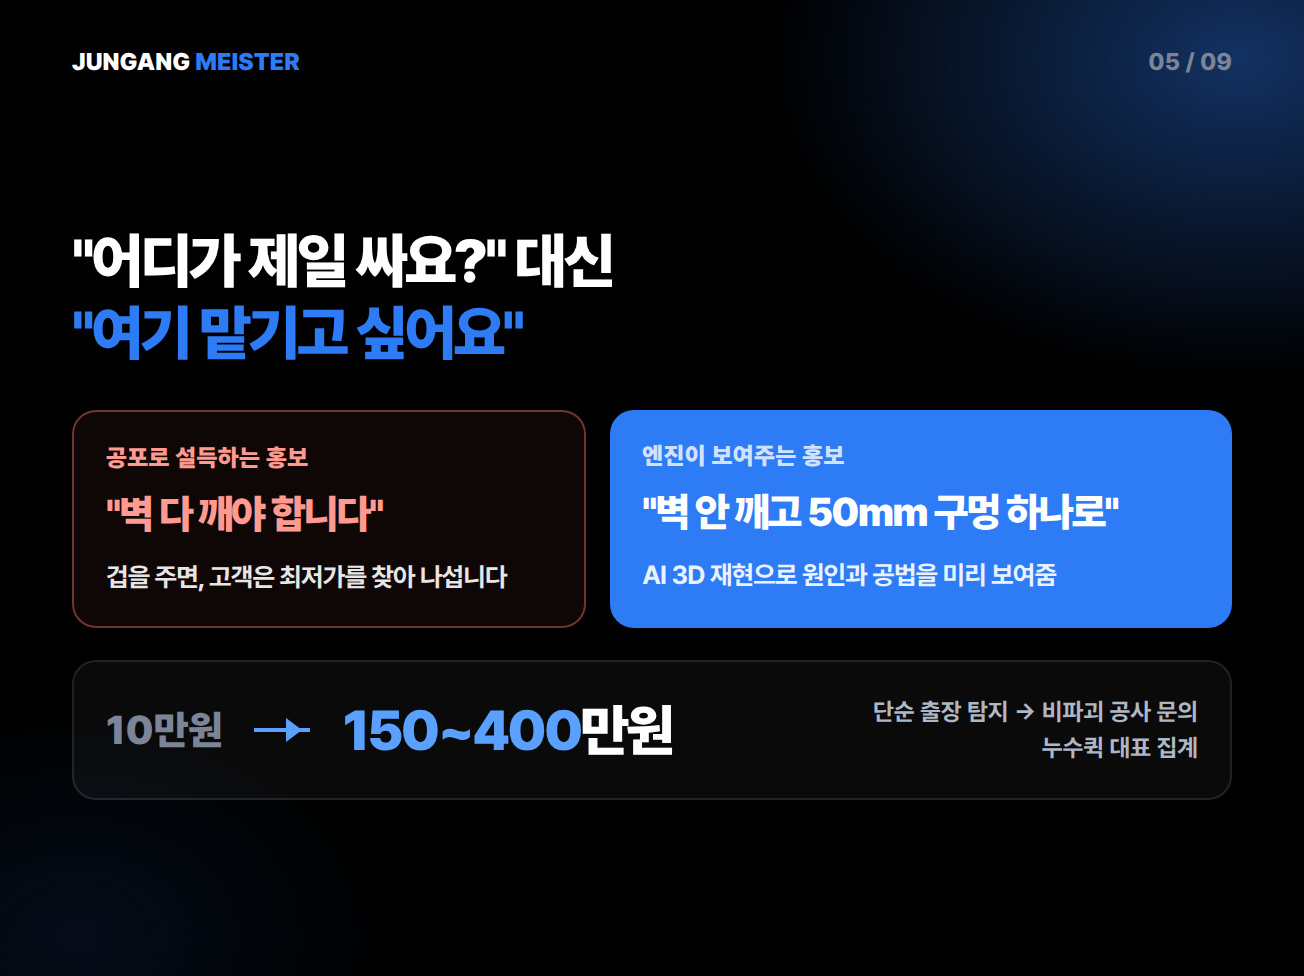
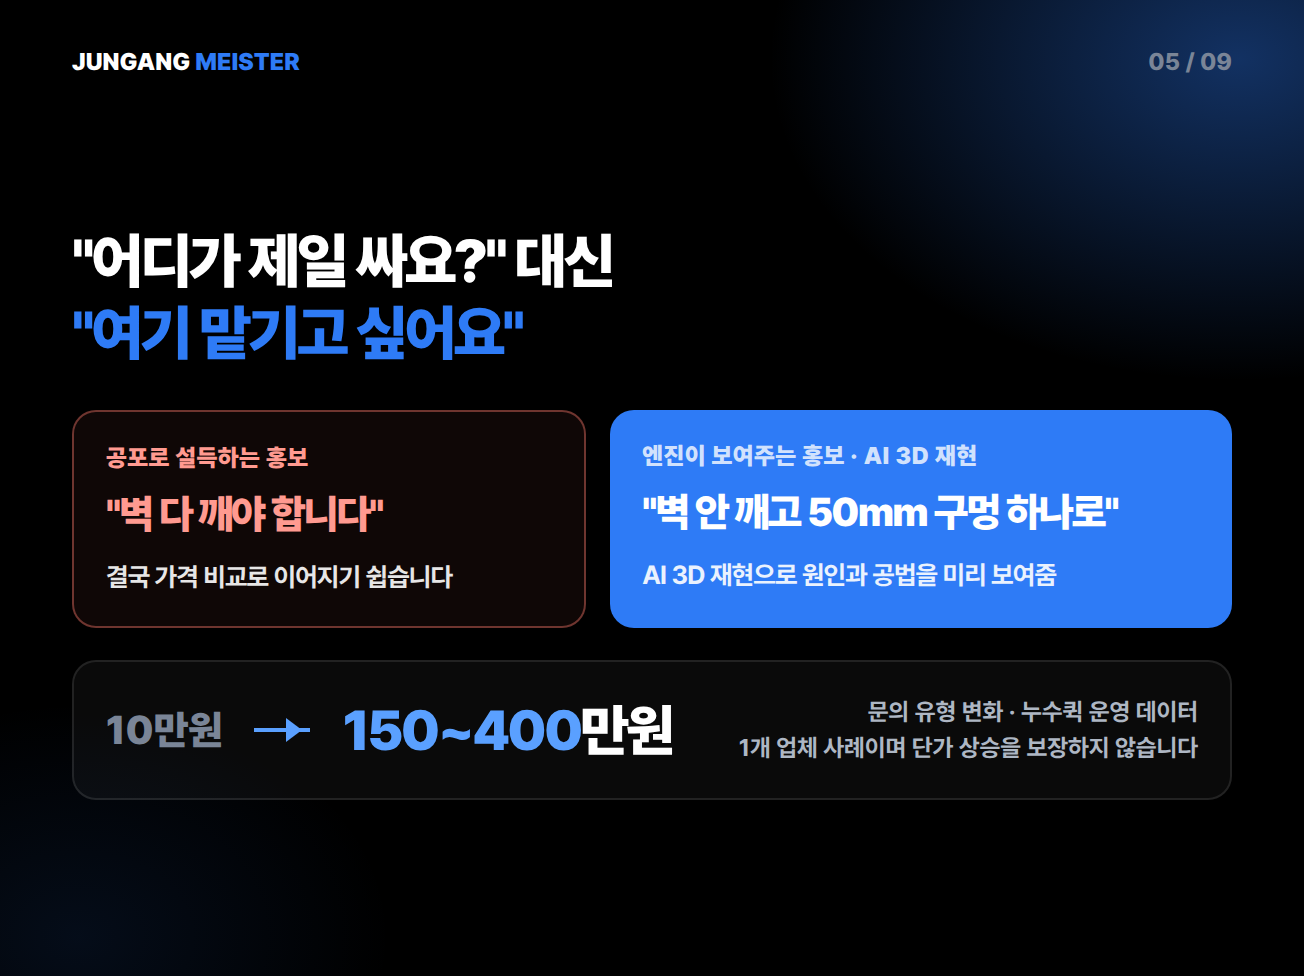
AI3D 카피 2차 검토 반영
- 누수퀵 수치 표기를 "운영 데이터"로, 기준일(2026년 10월)·1개 사례·
  단가 상승 비보장 고지 추가
- 파일럿 가격을 "파일럿부터 · 3개 채널"로 표기해 5채널 오인 방지
- 사장님 할 일 표현 통일(사진 올리고 승인)
- 개선 효과 단정 대신 "조회 데이터를 다음 콘텐츠에 반영"으로 사실 범위 축소
- 사진 제외 기준을 실제 필터(얼굴 절반 이상, 지정 작업복 문구)로 정정
- "방송 표준 음량" 삭제: EBU R128 방송 기준은 −23 LUFS이고 −16은
  스트리밍 권장치라 사실과 다름 → "플랫폼 권장 음량 보정"
- 비교표에 월 콘텐츠 수·시세 출처 수치 명시, 근거 없는 정성 주장 삭제
- 미확정 590만원 패키지는 "별도 견적", 홈페이지 보유 조건·착수일 고지

Claude-Session: https://claude.ai/code/session_01Qa8u8H65t3zHqY3BJueAkU

Changed region(s): [[0.5521, 0.707, 0.9202, 0.7992], [0.092, 0.5533, 0.3988, 0.6148], [0.6442, 0.4303, 0.7669, 0.4918]]

diff --git a/크몽/AI3D/cards.html b/크몽/AI3D/cards.html
@@ -168,12 +168,12 @@ body{display:flex;flex-direction:column;align-items:center;gap:32px;padding:32px
   <div class="main">
     <div class="l"><span class="tag">설비·시공 사장님 전용 홍보 엔진</span>
       <h1 style="font-size:35px">현장 사진 올리면<br><span class="b">아침 9시,</span><br>5개 채널 자동 발행</h1>
-      <p class="proof">누수퀵 실가동 · 광고비 0원 · <b>누적 조회 2만 회</b></p>
-      <div class="p-row"><span class="p-lab">2주 파일럿 · 3개 채널 · 쇼츠 6편</span></div>
+      <p class="proof">누수퀵 실가동 · 광고비 0원 · <b>144건 발행</b></p>
+      <div class="p-row"><span class="p-lab">파일럿부터 · 2주 · 3개 채널 · 쇼츠 6편</span></div>
       <span class="p-big">99만원</span><p class="p-note">VAT 별도 · 월 가동 패키지 있음</p></div>
     <div class="r"><svg class="fly" data-center="09:00" data-sub="5개 채널 동시"></svg></div>
   </div>
-  <div class="foot"><span class="foot__m">JUNGANG <span>MEISTER</span></span><span class="foot__s"></span><span class="foot__t">사장님 손은 승인 버튼뿐</span></div>
+  <div class="foot"><span class="foot__m">JUNGANG <span>MEISTER</span></span><span class="foot__s"></span><span class="foot__t">사장님은 사진 올리고 승인만</span></div>
 </section>
 
 <!-- ═════ 02 [Interest] PAS ═════ -->
@@ -185,7 +185,7 @@ body{display:flex;flex-direction:column;align-items:center;gap:32px;padding:32px
     <p class="h">홍보, 해야 하는 건 아는데<br><span class="b">손도 못 대고 계시죠?</span></p>
     <div class="pain">
       <div><b>직접 하면</b><span>현장 끝나면 기운이 없어 한 달에 두세 개</span></div>
-      <div><b>대행 맡기면</b><span>블로그·인스타·영상 따로 계약, 월 수백만 원</span></div>
+      <div><b>대행 맡기면</b><span>블로그·인스타·영상 따로 계약, 따로 연락</span></div>
       <div><b>그러다 보면</b><span>가격만 묻는 전화가 대부분</span></div>
     </div>
     <p class="hit">고객은 <span class="b">이해가 되는 업체</span>에 전화합니다.</p>
@@ -230,7 +230,7 @@ body{display:flex;flex-direction:column;align-items:center;gap:32px;padding:32px
         <div class="bars"><i style="height:20%"></i><i style="height:28%"></i><i style="height:25%"></i><i style="height:38%"></i><i style="height:35%"></i><i style="height:50%"></i><i style="height:46%"></i><i style="height:62%"></i><i style="height:57%"></i><i style="height:74%"></i><i class="on" style="height:92%"></i></div>
         <div class="sync"><span>09시 ✓</span><span>15시 ✓</span><span class="nx">21시</span></div></div>
     </div>
-    <p class="cap">누수퀵 1개 사례의 실제 수치입니다. 업종·지역·계정 상태에 따라 결과는 달라집니다.</p>
+    <p class="cap">2026년 10월 기준 누수퀵 1개 사례의 실제 수치입니다. 업종·지역·계정 상태에 따라 결과는 달라집니다.</p>
   </div>
 </section>
 
@@ -241,11 +241,11 @@ body{display:flex;flex-direction:column;align-items:center;gap:32px;padding:32px
   <div class="in">
     <p class="h s">"어디가 제일 싸요?" 대신<br><span class="b">"여기 맡기고 싶어요"</span></p>
     <div class="vs">
-      <div class="bad"><small>공포로 설득하는 홍보</small><b>"벽 다 깨야 합니다"</b><span>겁을 주면, 고객은 최저가를 찾아 나섭니다</span></div>
-      <div class="good"><small>엔진이 보여주는 홍보</small><b>"벽 안 깨고 50mm 구멍 하나로"</b><span>AI 3D 재현으로 원인과 공법을 미리 보여줌</span></div>
+      <div class="bad"><small>공포로 설득하는 홍보</small><b>"벽 다 깨야 합니다"</b><span>결국 가격 비교로 이어지기 쉽습니다</span></div>
+      <div class="good"><small>엔진이 보여주는 홍보 · AI 3D 재현</small><b>"벽 안 깨고 50mm 구멍 하나로"</b><span>AI 3D 재현으로 원인과 공법을 미리 보여줌</span></div>
     </div>
     <div class="jump"><span class="from">10만원</span><span class="arr"></span><span class="to"><em>150~400</em>만원</span>
-      <p>단순 출장 탐지 → 비파괴 공사 문의<br>누수퀵 대표 집계</p></div>
+      <p>문의 유형 변화 · 누수퀵 운영 데이터<br>1개 업체 사례이며 단가 상승을 보장하지 않습니다</p></div>
   </div>
 </section>
 
@@ -255,14 +255,14 @@ body{display:flex;flex-direction:column;align-items:center;gap:32px;padding:32px
   <div class="top"><b>JUNGANG <span>MEISTER</span></b><span>06 / 09</span></div>
   <div class="in row2">
     <div class="l">
-      <p class="eyebrow">반응이 다음 콘텐츠로 돌아오는 폐루프</p>
-      <p class="h s">발행할수록<br><span class="b">반응 좋은 쪽으로</span><br>다듬어집니다</p>
+      <p class="eyebrow">반응을 보고 다음 콘텐츠를 조정하는 구조</p>
+      <p class="h s">오늘의 조회 데이터가,<br><span class="b">내일 콘텐츠에</span><br>반영됩니다</p>
       <div class="ben">
-        <div><b>반응 좋은 주제는 다음에 더 만듭니다</b><span>하루 세 번 채널별 조회·반응을 모아 다음 생성에 반영</span></div>
+        <div><b>조회가 잘 나온 주제는 다음에 더 다룹니다</b><span>하루 세 번 채널별 조회 데이터를 모아 다음 생성에 반영</span></div>
         <div><b>같은 영상 재탕 없음</b><span>발행마다 AI 3D 장면을 새로 생성</span></div>
-        <div><b>깔끔한 전문 업체 이미지로</b><span>얼굴이 크게 나오거나 작업복 문구가 찍힌 사진은 자동 제외</span></div>
+        <div><b>깔끔한 전문 업체 이미지로</b><span>얼굴이 절반 이상 보이거나 지정한 작업복 문구가 찍힌 사진은 자동 제외</span></div>
       </div>
-      <div class="chips"><span>Google Veo 3.1</span><span>음성·자막 자동 맞춤</span><span>방송 표준 음량</span></div>
+      <div class="chips"><span>구글 AI 영상 생성</span><span>음성·자막 자동 맞춤</span><span>플랫폼 권장 음량 보정</span></div>
     </div>
     <svg class="fly" data-big="1" data-center="주 5회" data-sub="자동 반복"></svg>
   </div>
@@ -296,11 +296,12 @@ body{display:flex;flex-direction:column;align-items:center;gap:32px;padding:32px
     <table class="tbl">
       <tr><th></th><th>마케터 1명 채용</th><th>채널별 대행 3곳</th><th class="us">홍보 엔진 월 가동</th></tr>
       <tr><td>월 비용</td><td>인건비 + 4대보험</td><td>230~420만원</td><td class="us">290만원 · VAT 별도</td></tr>
-      <tr><td>채널</td><td>1~2개가 현실적</td><td>블로그·인스타·숏폼</td><td class="us">5개 동시 발행</td></tr>
+      <tr><td>월 콘텐츠</td><td>담당자 역량에 따라</td><td>숏폼 12편 기준</td><td class="us">약 20편 (주 5회)</td></tr>
+      <tr><td>채널</td><td>담당자 역량에 따라</td><td>블로그·인스타·숏폼</td><td class="us">5개 동시 발행</td></tr>
       <tr><td>AI 3D 영상</td><td>별도 외주</td><td>숏폼 편당 구매</td><td class="us">발행마다 포함</td></tr>
-      <tr><td>사장님 할 일</td><td>채용·관리</td><td>3곳과 따로 소통</td><td class="us">승인 버튼</td></tr>
+      <tr><td>사장님 할 일</td><td>채용·관리</td><td>3곳과 따로 소통</td><td class="us">사진 올리고 승인</td></tr>
     </table>
-    <p class="src">대행: 크몽 블로그 운영·인스타 운영·숏폼 월 12편 시세 합산 (2026년 10월 공개 등록 서비스 기준)</p>
+    <p class="src">대행: 블로그 운영 월 22만~133만, 인스타 운영 월 52만~130만, 숏폼 편당 평균 약 13만원 × 12편 합산 (2026년 10월 크몽 공개 가격 범위, VAT 기준은 판매자별 상이)</p>
   </div>
 </section>
 
@@ -309,14 +310,14 @@ body{display:flex;flex-direction:column;align-items:center;gap:32px;padding:32px
   <div class="beam"></div>
   <div class="top"><b>JUNGANG <span>MEISTER</span></b><span>09 / 09</span></div>
   <div class="in">
-    <p class="h s">사장님 업종에,<br><span class="b">이 엔진을 그대로 설치합니다</span></p>
+    <p class="h s">사장님 업종에 맞춰 세팅하고,<br><span class="b">매달 대신 돌립니다</span></p>
     <div class="price">
       <div class="pr"><p class="n">2주 파일럿</p><p class="v">99만원</p><p class="d">쇼츠 6편 · 유튜브·인스타·스레드</p></div>
       <div class="pr on"><span class="flag">추천</span><p class="n">월 가동 · 주 5회</p><p class="v">290만원</p><p class="d">5개 채널 동시 발행 · 성과 대시보드</p></div>
-      <div class="pr"><p class="n">매일 가동 + 3D 웹</p><p class="v">590만원</p><p class="d">매일 09시 · 3D 메인 웹 구축</p></div>
+      <div class="pr"><p class="n">매일 가동 + 3D 웹</p><p class="v">별도 견적</p><p class="d">매일 09시 · 3D 메인 웹 구축</p></div>
     </div>
     <div class="ask">아래 <em>문의하기</em>로 업종만 알려주세요<small>우리 업종에 맞는지부터 답해드립니다</small></div>
-    <p class="fine">모든 가격 VAT 별도 · 월 가동은 월 단위 · 상담 평일 10–18시 · 영상은 AI 3D 재현입니다</p>
+    <p class="fine">VAT 별도 · 홈페이지 채널은 홈페이지 보유 시 · 착수일·세팅 기간은 상담 후 확정 · 영상은 AI 3D 재현</p>
   </div>
 </section>
 
